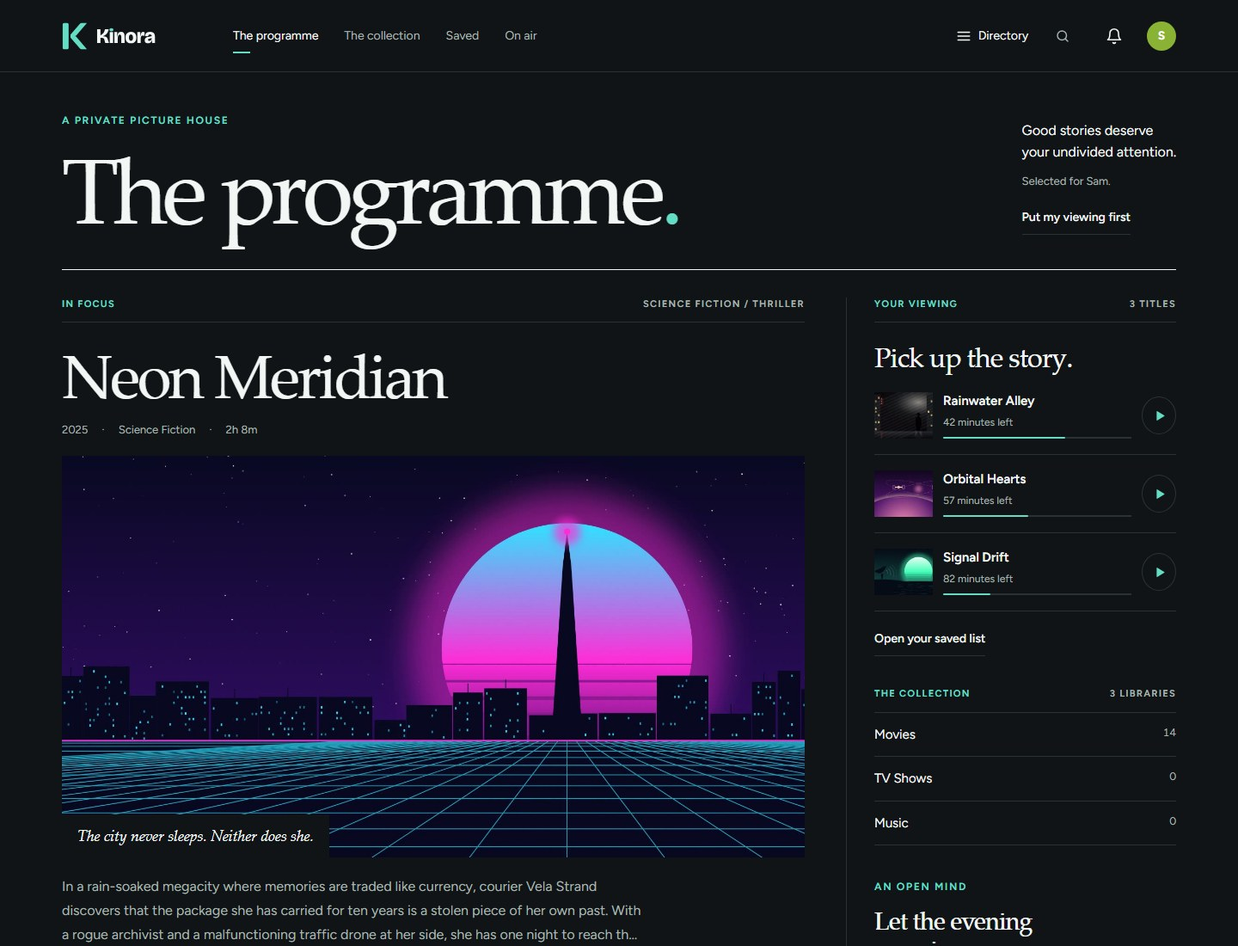
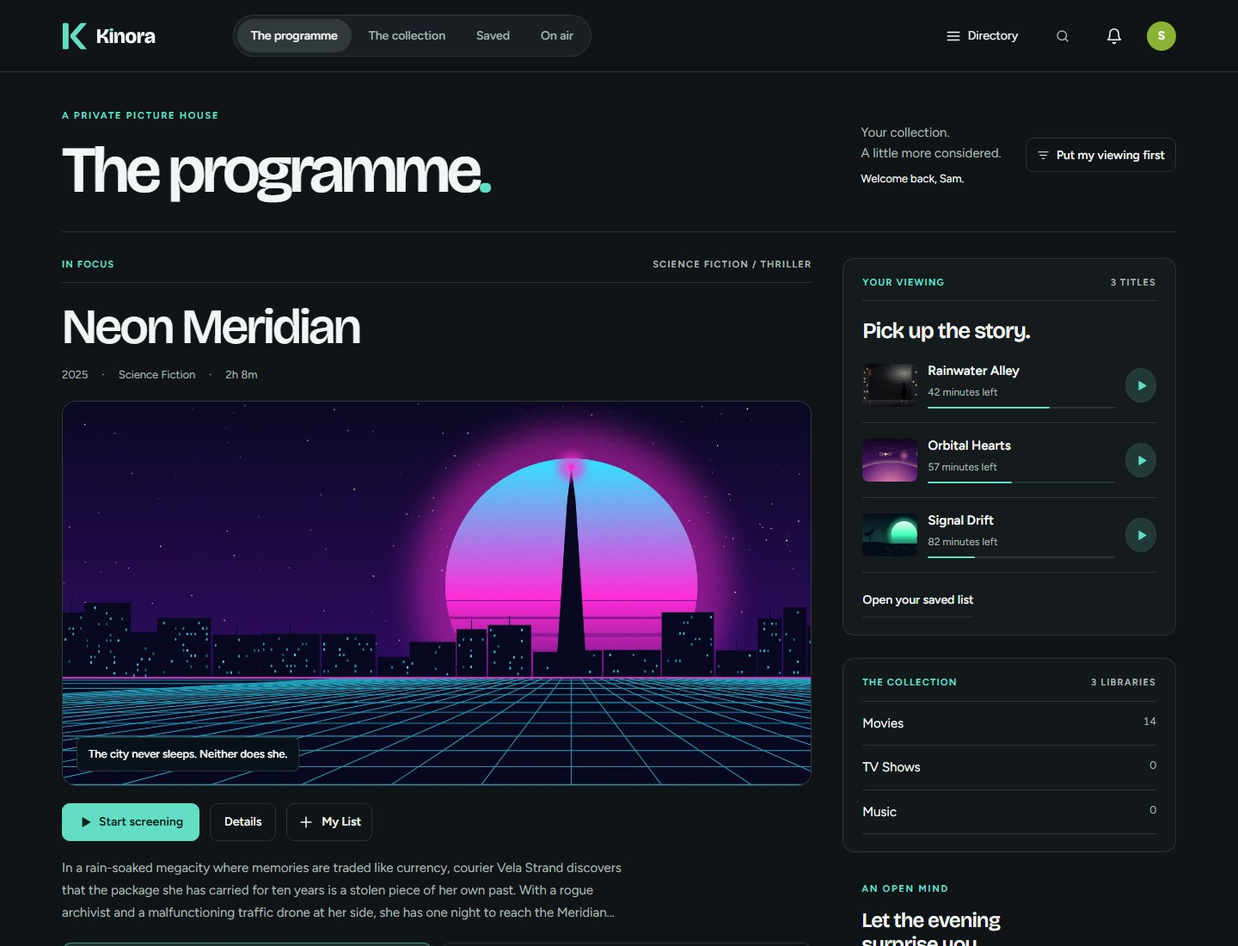
Refine programme typography surfaces navigation and screening actions

diff --git a/web/src/styles/programme.css b/web/src/styles/programme.css
@@ -1,101 +1,101 @@
 /* The Programme: an editorial picture-house interface. TV keeps its remote-first shell. */
 .masthead-nav, .directory-trigger, .directory-close { display: none; }
-html:not(.tv) .app-shell.edition { --sidebar-w: 0px; --topbar-h: 84px; --gutter: clamp(24px, 5vw, 80px); --programme-serif: 'Iowan Old Style', 'Palatino Linotype', 'Book Antiqua', Georgia, serif; }
+html:not(.tv) .app-shell.edition { --sidebar-w: 0px; --topbar-h: 84px; --gutter: clamp(24px, 5vw, 80px); --programme-display: var(--font-display); }
 .edition .ambient { display: none; }
 .edition .main-col { margin-left: 0; }
 .edition .main { padding-top: var(--topbar-h); }
-.edition .topbar { left: 0; height: var(--topbar-h); padding: 0 var(--gutter); background: var(--c-bg); border-bottom: 1px solid var(--c-line); box-shadow: none; gap: 18px; backdrop-filter: none; }
+.edition .topbar { left: 0; height: var(--topbar-h); padding: 0 var(--gutter); background: color-mix(in srgb, var(--c-bg) 94%, transparent); border-bottom: 1px solid var(--c-line); box-shadow: none; gap: 18px; backdrop-filter: blur(18px); }
 .edition .topbar::before { display: none; }
 .edition .topbar-brand { display: inline-flex; margin-right: clamp(24px, 5vw, 80px); }
 .edition .topbar-caption { display: none; }
-.edition .masthead-nav { display: flex; align-items: center; gap: 30px; white-space: nowrap; }
-.masthead-nav a { position: relative; font-size: .875rem; color: var(--c-text-muted); padding: 30px 0; }
-.masthead-nav a.active { color: var(--c-text); }
-.masthead-nav a.active::after { content: ''; position: absolute; left: 0; bottom: 20px; width: 20px; height: 2px; background: var(--c-primary); }
-.edition .directory-trigger { display: inline-flex; align-items: center; gap: 8px; min-height: 44px; font-size: .875rem; }
+.edition .masthead-nav { display: flex; align-items: center; gap: 4px; padding: 4px; border: 1px solid var(--c-line); border-radius: 999px; background: var(--c-surface); white-space: nowrap; }
+.masthead-nav a { position: relative; font-size: .875rem; font-weight: 550; color: var(--c-text-muted); padding: 9px 16px; border-radius: 999px; transition: color .18s, background .18s; }
+.masthead-nav a.active { color: var(--c-text); background: var(--c-hover-strong); }
+.masthead-nav a.active::after { display: none; }
+.edition .directory-trigger { display: inline-flex; align-items: center; gap: 8px; min-height: 44px; padding: 0 12px; border-radius: 10px; font-size: .875rem; }
 .edition .cmd-trigger { width: 44px; min-width: 44px; height: 44px; justify-content: center; padding: 0; border: 0; background: none; box-shadow: none; backdrop-filter: none; }
 .edition .cmd-trigger-text, .edition .cmd-kbd { display: none; }
 .edition.app-shell .rail { left: auto; right: 16px; top: 100px; bottom: 20px; width: min(360px, calc(100vw - 32px)); transform: translateX(calc(100% + 32px)); visibility: hidden; pointer-events: none; z-index: 90; }
 .edition.app-shell.drawer-open .rail { transform: none; visibility: visible; pointer-events: auto; }
-.edition.app-shell .rail-panel { clip-path: none; border-radius: 2px; background: var(--c-surface); backdrop-filter: none; box-shadow: var(--shadow-lg); padding: 20px; }
+.edition.app-shell .rail-panel { clip-path: none; border-radius: 16px; background: var(--c-surface); backdrop-filter: none; box-shadow: var(--shadow-lg); padding: 20px; }
 .edition .rail :is(.nav-label, .nav-group-label, .nav-group-chev, .rail-meta) { opacity: 1; transform: none; }
 .edition .rail .nav-group-line, .edition .rail-pin { display: none; }
 .edition .directory-close { display: grid; place-items: center; position: absolute; top: 20px; right: 16px; width: 44px; height: 44px; z-index: 1; }
 .edition .drawer-scrim { display: block; visibility: hidden; position: fixed; inset: 0; z-index: 85; opacity: 0; pointer-events: none; background: rgb(0 0 0 / .65); }
 .edition.drawer-open .drawer-scrim { visibility: visible; opacity: 1; pointer-events: auto; }
-.edition .btn { border-radius: 2px; box-shadow: none; }
+.edition .btn { border-radius: 9px; box-shadow: none; }
 .edition .btn-primary { box-shadow: none; }
-.edition :is(.modal, .menu, .settings-card, .stat, .table-wrap) { border-radius: 3px; }
+.edition :is(.modal, .menu, .settings-card, .stat, .table-wrap) { border-radius: 14px; }
 .edition .page { width: 100%; max-width: 1560px; margin: 0 auto; padding: 44px var(--gutter); }
 .edition .page-head { padding-bottom: 24px; border-bottom: 1px solid var(--c-line); margin-bottom: 24px; }
-.edition .page-head h1 { font-family: var(--programme-serif); font-size: clamp(2.5rem, 5vw, 4.5rem); font-weight: 400; line-height: 1.05; letter-spacing: -.04em; }
+.edition .page-head h1 { font-family: var(--programme-display); font-size: clamp(2.3rem, 4vw, 3.5rem); font-weight: 600; line-height: 1.12; letter-spacing: -.045em; }
 .edition .page-title-wrap .page-icon { display: none; }
-.edition .filter-bar { position: static; border-bottom: 1px solid var(--c-line); padding: 0 0 20px; background: none; }
-.edition .filter-bar :is(.select, .chip) { border-radius: 2px; min-height: 40px; }
+.edition .filter-bar { position: static; border: 1px solid var(--c-line); border-radius: 12px; padding: 12px; background: color-mix(in srgb, var(--c-surface) 55%, transparent); }
+.edition .filter-bar :is(.select, .chip) { border-radius: 7px; min-height: 40px; }
 .edition .detail { margin-top: 0; }
 .edition .detail-backdrop { position: relative; left: 0; height: clamp(240px, 32vw, 460px); mask-image: none; -webkit-mask-image: none; }
 .edition .detail-shade { background: linear-gradient(to top, rgb(0 0 0 / .2), transparent); }
 .edition .detail-main { padding-top: 36px; align-items: flex-start; }
-.edition .detail-title { font-family: var(--programme-serif); font-weight: 400; }
-.edition .detail-poster { border-radius: 2px; box-shadow: none; }
-.edition .card-art { border-radius: 2px; }
-.edition .card { --poster-radius: 2px; }
+.edition .detail-title { font-family: var(--programme-display); font-weight: 600; }
+.edition .detail-poster { border-radius: 12px; box-shadow: var(--shadow); }
+.edition .card-art { border-radius: 10px; }
+.edition .card { --poster-radius: 10px; }
 .edition .card:hover { transform: none; }
 
 /* Masthead and spread use typographic hierarchy and rules instead of floating panels. */
 .programme { max-width: 1560px; margin: 0 auto; padding: 0 var(--gutter) 32px; }
 .programme-loading { padding-top: 44px; }
-.programme-masthead { display: flex; align-items: flex-end; justify-content: space-between; gap: 36px; padding: 44px 0 36px; border-bottom: 1px solid var(--c-text); margin-bottom: 32px; }
-.programme-kicker { color: var(--c-primary); font-size: .75rem; font-weight: 650; text-transform: uppercase; letter-spacing: .14em; }
-.programme-masthead h1 { font: 400 clamp(3.5rem, 7.5vw, 7rem)/1.06 var(--programme-serif); letter-spacing: -.055em; margin-top: 12px; }
+.programme-masthead { display: flex; align-items: center; justify-content: space-between; gap: 36px; padding: 38px 0 30px; border-bottom: 1px solid var(--c-line); margin-bottom: 30px; }
+.programme-kicker { color: var(--c-primary); font-size: .6875rem; font-weight: 650; text-transform: uppercase; letter-spacing: .16em; }
+.programme-masthead h1 { font: 600 clamp(3rem, 5.3vw, 5rem)/1.08 var(--programme-display); letter-spacing: -.055em; margin-top: 12px; }
 .programme-masthead h1 span { color: var(--c-primary); }
-.programme-introduction { flex: none; padding-bottom: 4px; }
-.programme-introduction p { font-size: 1rem; line-height: 1.55; margin-bottom: 12px; }
-.programme-introduction small { display: block; font-size: .8125rem; color: var(--c-text-muted); }
-.programme-introduction button { display: block; margin-top: 12px; }
-.programme-text-link { display: inline-flex; align-items: center; min-height: 40px; width: fit-content; border-bottom: 1px solid var(--c-line); font-size: .875rem; font-weight: 550; color: var(--c-text); text-align: left; }
+.programme-introduction { flex: none; display: grid; grid-template-columns: auto auto; column-gap: 28px; align-items: center; padding-bottom: 0; }
+.programme-introduction p { grid-column: 1; font-size: .9375rem; line-height: 1.55; margin-bottom: 8px; color: var(--c-text-muted); }
+.programme-introduction small { grid-column: 1; display: block; font-size: .8125rem; color: var(--c-text); }
+.programme-introduction button { grid-column: 2; grid-row: 1 / 3; display: inline-flex; gap: 8px; margin-top: 0; border: 1px solid var(--c-line); border-radius: 9px; padding: 0 12px; }
+.programme-text-link { display: inline-flex; align-items: center; min-height: 40px; width: fit-content; border-bottom: 1px solid var(--c-line); font-size: .875rem; font-weight: 550; color: var(--c-text); text-align: left; transition: color .18s, border-color .18s; }
 .programme-text-link:hover { color: var(--c-primary); border-color: var(--c-primary); }
 .programme-text-link[aria-pressed='true'] { color: var(--c-primary); }
-.programme-spread { display: grid; grid-template-columns: minmax(0, 2.25fr) minmax(260px, 1fr); gap: 48px; align-items: start; }
-.programme-rule { display: flex; align-items: center; justify-content: space-between; gap: 12px; padding-bottom: 12px; border-bottom: 1px solid var(--c-line); color: var(--c-text-muted); text-transform: uppercase; letter-spacing: .12em; font-size: .6875rem; font-weight: 650; }
+.programme-spread { display: grid; grid-template-columns: minmax(0, 2.25fr) minmax(280px, 1fr); gap: 36px; align-items: start; }
+.programme-rule { display: flex; align-items: center; justify-content: space-between; gap: 12px; padding-bottom: 12px; border-bottom: 1px solid var(--c-line); color: var(--c-text-muted); text-transform: uppercase; letter-spacing: .11em; font-size: .6875rem; font-weight: 650; }
 .programme-rule > span:first-child { color: var(--c-primary); }
-.feature-heading { padding: 24px 0 20px; }
-.feature-heading h2 { font: 400 clamp(2.7rem, 5vw, 5rem)/1.03 var(--programme-serif); letter-spacing: -.045em; text-wrap: balance; margin-bottom: 16px; }
+.feature-heading { padding: 20px 0 20px; }
+.feature-heading h2 { font: 550 clamp(2.3rem, 4vw, 3.8rem)/1.08 var(--programme-display); letter-spacing: -.045em; text-wrap: balance; margin-bottom: 14px; }
 .programme-meta { display: flex; gap: 8px 16px; flex-wrap: wrap; font-size: .8125rem; line-height: 1.6; color: var(--c-text-muted); }
 .programme-meta span + span::before { content: '·'; display: inline-block; margin-right: 16px; }
-.feature-photograph { display: block; position: relative; width: 100%; aspect-ratio: 1.85; overflow: hidden; background: var(--c-surface-alt); }
+.feature-photograph { display: block; position: relative; width: 100%; aspect-ratio: 1.95; overflow: hidden; background: var(--c-surface-alt); border-radius: 16px; border: 1px solid var(--c-line); }
 .feature-photograph > .img, .feature-photograph > .img-fallback { width: 100%; height: 100%; object-fit: cover; }
-.feature-caption { position: absolute; left: 0; bottom: 0; max-width: 90%; padding: 12px 18px; font-family: var(--programme-serif); font-style: italic; font-size: 1.1rem; background: var(--c-bg); color: var(--c-text); }
-.feature-bottom { padding: 20px 0 24px; }
-.feature-description { max-width: 66ch; font-size: 1rem; line-height: 1.75; color: var(--c-text-muted); display: -webkit-box; -webkit-line-clamp: 3; -webkit-box-orient: vertical; overflow: hidden; }
-.feature-actions { display: flex; align-items: center; gap: 22px; margin-top: 20px; flex-wrap: wrap; }
-.edition .programme-play { min-height: 44px; padding: 0 20px; background: var(--c-text); color: var(--c-bg); border: 1px solid var(--c-text); font-size: .875rem; font-weight: 650; }
-.edition .programme-play:hover { background: var(--c-primary); color: var(--c-primary-text); border-color: var(--c-primary); }
+.feature-caption { position: absolute; left: 16px; bottom: 16px; max-width: calc(100% - 32px); padding: 9px 13px; font-size: .8125rem; font-weight: 500; border-radius: 7px; border: 1px solid rgb(255 255 255 / .14); background: rgb(8 16 17 / .76); color: #fff; backdrop-filter: blur(12px); }
+.feature-bottom { padding: 20px 0 22px; }
+.feature-description { max-width: 68ch; margin-top: 18px; font-size: .9375rem; line-height: 1.75; color: var(--c-text-muted); display: -webkit-box; -webkit-line-clamp: 3; -webkit-box-orient: vertical; overflow: hidden; }
+.feature-actions { display: flex; align-items: center; gap: 12px; margin-top: 0; flex-wrap: wrap; }
+.edition .programme-play { min-height: 44px; padding: 0 18px; background: var(--c-primary); color: var(--c-primary-text); border: 1px solid var(--c-primary); font-size: .875rem; font-weight: 650; }
+.edition .programme-play:hover { filter: brightness(1.08); transform: translateY(-1px); }
 .edition .feature-actions .watchlist-btn, .edition .catalogue-actions .watchlist-btn { font-size: .875rem; min-height: 44px; height: auto; padding: 0 12px; border: 1px solid var(--c-line); background: transparent; backdrop-filter: none; color: var(--c-text); }
-.feature-switcher { display: grid; grid-template-columns: repeat(2, minmax(0, 1fr)); gap: 0 24px; border-top: 1px solid var(--c-line); }
-.feature-switcher button { display: flex; align-items: center; justify-content: space-between; gap: 12px; min-width: 0; min-height: 56px; padding: 12px 0; text-align: left; border-bottom: 1px solid var(--c-line); font-size: .875rem; color: var(--c-text-muted); }
-.feature-switcher button[aria-pressed='true'] { color: var(--c-primary); border-bottom-color: var(--c-primary); }
-.feature-switcher button small { font-size: .75rem; flex: none; }
-.programme-margin { border-left: 1px solid var(--c-line); padding-left: 32px; }
-.programme-margin h2 { font: 400 2rem/1.15 var(--programme-serif); letter-spacing: -.03em; margin: 22px 0; }
+.feature-switcher { display: grid; grid-template-columns: repeat(2, minmax(0, 1fr)); gap: 10px; border-top: 0; }
+.feature-switcher button { display: grid; grid-template-columns: 60px minmax(0, 1fr); grid-template-rows: auto auto; align-items: center; gap: 2px 12px; min-width: 0; min-height: 76px; padding: 10px; text-align: left; border: 1px solid var(--c-line); border-radius: 11px; font-size: .875rem; color: var(--c-text-muted); transition: background .18s, border-color .18s; }
+.feature-switcher button[aria-pressed='true'] { color: var(--c-text); border-color: color-mix(in srgb, var(--c-primary) 55%, transparent); background: var(--c-primary-soft); }
+.feature-switcher button small { grid-column: 2; align-self: start; font-size: .75rem; color: var(--c-text-muted); }
+.programme-margin { padding: 0; border-left: 0; }
+.programme-margin h2 { font: 600 1.6rem/1.2 var(--programme-display); letter-spacing: -.035em; margin: 20px 0; }
 .viewing-entries { max-height: 450px; overflow-y: auto; scrollbar-width: thin; }
-.viewing-entry { display: flex; align-items: center; gap: 12px; padding: 18px 0; border-bottom: 1px solid var(--c-line); }
+.viewing-entry { display: flex; align-items: center; gap: 12px; padding: 16px 0; border-bottom: 1px solid var(--c-line); }
 .viewing-entry:first-child { padding-top: 0; }
-.viewing-art { width: 68px; height: 54px; flex: none; overflow: hidden; background: var(--c-surface); }
+.viewing-art { width: 64px; height: 50px; flex: none; overflow: hidden; border-radius: 7px; background: var(--c-surface); }
 .viewing-art .img { width: 100%; height: 100%; object-fit: cover; }
 .viewing-copy { min-width: 0; flex: 1; }
 .viewing-copy > a { display: block; font-size: .9375rem; font-weight: 600; line-height: 1.4; }
 .viewing-copy small { display: block; font-size: .75rem; color: var(--c-text-muted); line-height: 1.5; margin: 5px 0 8px; }
 .viewing-copy .progress { height: 2px; border-radius: 0; background: var(--c-line); }
-.viewing-play { width: 40px; height: 44px; flex: none; display: grid; place-items: center; color: var(--c-primary); border: 1px solid var(--c-line); border-radius: 50%; }
+.viewing-play { width: 36px; height: 40px; flex: none; display: grid; place-items: center; color: var(--c-primary); border: 1px solid var(--c-line); border-radius: 50%; background: var(--c-primary-soft); }
 .viewing-board > .programme-text-link { margin-top: 12px; }
 .programme-note { color: var(--c-text-muted); font-size: .95rem; line-height: 1.7; }
-.collection-directory { margin-top: 36px; }
+.collection-directory { margin-top: 26px; padding: 20px 22px; border: 1px solid var(--c-line); border-radius: 14px; background: color-mix(in srgb, var(--c-surface) 40%, transparent); }
 .collection-directory > a { display: flex; justify-content: space-between; gap: 16px; padding: 14px 0; border-bottom: 1px solid var(--c-line); font-size: .9375rem; }
 .collection-directory > a:hover { color: var(--c-primary); }
 .collection-directory small { color: var(--c-text-muted); font-variant-numeric: tabular-nums; }
-.programme-chance { margin-top: 36px; }
-.programme-chance h2 { font-size: 1.8rem; margin: 12px 0 16px; }
+.programme-chance { margin-top: 26px; padding: 4px 22px; }
+.programme-chance h2 { font-size: 1.5rem; margin: 12px 0 16px; }
 .programme-chance .decide-bar { padding: 0; margin: 0; display: flex; flex-direction: column; align-items: flex-start; gap: 10px; }
 .edition .programme-chance .chip { border: 0; border-bottom: 1px solid var(--c-line); padding: 0; border-radius: 0; min-height: 40px; background: none; font-size: .875rem; }
 .programme-spread.without-feature { grid-template-columns: 1fr; }
@@ -106,32 +106,32 @@ html:not(.tv) .app-shell.edition { --sidebar-w: 0px; --topbar-h: 84px; --gutter:
 .viewing-first .feature-story { grid-column: 2; grid-row: 1; }
 .programme.viewing-first .programme-spread.without-feature { grid-template-columns: 1fr; }
 .programme.viewing-first .without-feature .programme-margin { grid-column: auto; grid-row: auto; border: 0; padding: 0; }
-.story-section { margin-top: 52px; padding-top: 24px; border-top: 1px solid var(--c-text); }
+.story-section { margin-top: 44px; padding-top: 28px; border-top: 1px solid var(--c-line); }
 .story-section-head { display: flex; align-items: baseline; justify-content: space-between; gap: 24px; margin-bottom: 24px; }
-.story-section-head h2 { font: 400 clamp(1.9rem, 3vw, 2.8rem)/1.15 var(--programme-serif); letter-spacing: -.03em; }
+.story-section-head h2 { font: 600 clamp(1.7rem, 2.5vw, 2.3rem)/1.2 var(--programme-display); letter-spacing: -.035em; }
 .story-section-head > div { display: flex; align-items: center; gap: 24px; flex: none; font-size: .8125rem; color: var(--c-text-muted); }
 .story-grid { display: grid; grid-template-columns: repeat(3, minmax(0, 1fr)); gap: 32px 26px; }
 .story-tile:first-child { grid-column: span 2; }
-.story-art { display: block; width: 100%; aspect-ratio: 1.18; overflow: hidden; background: var(--c-surface); margin-bottom: 14px; }
+.story-art { display: block; width: 100%; aspect-ratio: 1.18; overflow: hidden; background: var(--c-surface); border: 1px solid var(--c-line); border-radius: 12px; margin-bottom: 14px; }
 .story-tile:first-child .story-art { aspect-ratio: 2.42; }
 .story-art .img { width: 100%; height: 100%; object-fit: cover; transition: transform .3s; }
 .story-art:hover .img { transform: scale(1.025); }
-.story-title { display: block; font: 400 1.6rem/1.2 var(--programme-serif); letter-spacing: -.02em; margin-bottom: 8px; }
+.story-title { display: block; font: 600 1.3rem/1.3 var(--programme-display); letter-spacing: -.025em; margin-bottom: 8px; }
 .story-title:hover { color: var(--c-primary); }
 .story-more { margin-top: 24px; }
 .programme-special { padding-top: 32px; margin-top: 32px; border-top: 1px solid var(--c-line); }
 .programme-special .row-head, .programme-special .row-scroller { padding-left: 0; padding-right: 0; }
-.programme-colophon { display: flex; justify-content: space-between; gap: 24px; padding: 28px 0; margin-top: 48px; border-top: 1px solid var(--c-text); font-size: .8125rem; color: var(--c-text-muted); }
-.programme-colophon > span { font-family: var(--programme-serif); font-size: 1.2rem; font-style: italic; }
+.programme-colophon { display: flex; justify-content: space-between; gap: 24px; padding: 28px 0; margin-top: 48px; border-top: 1px solid var(--c-line); font-size: .8125rem; color: var(--c-text-muted); }
+.programme-colophon > span { font-family: var(--programme-display); font-size: 1rem; font-weight: 600; }
 
 /* A catalogue to read, with working filters and an optional cover view. */
-.library-presentation { display: flex; gap: 24px; margin: 0 0 24px; }
-.library-presentation button { min-height: 44px; font-size: .875rem; border-bottom: 1px solid transparent; color: var(--c-text-muted); }
-.library-presentation button[aria-pressed='true'] { color: var(--c-primary); border-color: var(--c-primary); }
+.library-presentation { display: flex; gap: 4px; width: fit-content; padding: 4px; border: 1px solid var(--c-line); border-radius: 9px; background: var(--c-surface); margin: 0 0 24px; }
+.library-presentation button { min-height: 38px; padding: 0 14px; font-size: .875rem; border-radius: 6px; color: var(--c-text-muted); }
+.library-presentation button[aria-pressed='true'] { color: var(--c-text); background: var(--c-hover-strong); }
 .catalogue-entry { display: grid; grid-template-columns: 78px minmax(0, 1fr) auto; align-items: start; gap: 24px; padding: 24px 0; border-bottom: 1px solid var(--c-line); }
-.catalogue-cover { width: 78px; height: 112px; overflow: hidden; background: var(--c-surface); }
+.catalogue-cover { width: 78px; height: 112px; overflow: hidden; background: var(--c-surface); border-radius: 8px; }
 .catalogue-cover .img { width: 100%; height: 100%; object-fit: contain; }
-.catalogue-title { display: block; font: 400 1.9rem/1.15 var(--programme-serif); letter-spacing: -.02em; margin: 2px 0 10px; }
+.catalogue-title { display: block; font: 600 1.45rem/1.25 var(--programme-display); letter-spacing: -.025em; margin: 2px 0 10px; }
 .catalogue-copy > p { max-width: 75ch; margin-top: 10px; font-size: .9375rem; line-height: 1.65; color: var(--c-text-muted); display: -webkit-box; -webkit-line-clamp: 2; -webkit-box-orient: vertical; overflow: hidden; }
 .catalogue-actions { display: flex; align-items: center; gap: 12px; padding-top: 8px; }
 .edition .jumpbar { top: calc(var(--topbar-h) + 24px); padding-left: 8px; }
@@ -216,4 +216,59 @@ html:not(.tv) .app-shell.edition { --sidebar-w: 0px; --topbar-h: 84px; --gutter:
 @media (prefers-reduced-motion: reduce) {
   .story-art .img { transition: none; }
   .story-art:hover .img { transform: none; }
+}
+
+/* Surface and interaction finishing. */
+@media (max-width: 1050px) {
+  .edition .masthead-nav { display: none; }
+}
+.viewing-board { padding: 20px 22px; border: 1px solid var(--c-line); border-radius: 14px; background: color-mix(in srgb, var(--c-surface) 65%, transparent); }
+.feature-switcher button > .img, .feature-switcher button > .img-fallback { grid-row: 1 / 3; width: 60px; height: 46px; object-fit: cover; border-radius: 6px; }
+.feature-switcher button > span { align-self: end; font-weight: 550; line-height: 1.3; }
+.feature-actions > .programme-text-link { min-height: 44px; border: 1px solid var(--c-line); border-radius: 9px; padding: 0 16px; }
+.edition :is(.directory-trigger, .cmd-trigger):hover { background: var(--c-hover); }
+.edition :is(.cmd-trigger, .user-btn) { border-radius: 10px; }
+.edition .programme :is(a, button):focus-visible, .edition .library-presentation button:focus-visible { outline: 2px solid var(--c-primary); outline-offset: 4px; }
+.catalogue-entry { transition: background .18s; }
+.catalogue-entry:hover { background: color-mix(in srgb, var(--c-surface) 35%, transparent); }
+@media (max-width: 1150px) {
+  .programme-introduction { column-gap: 18px; }
+  .programme-introduction p { display: none; }
+  .programme-introduction small { grid-row: 1; }
+  .programme-introduction button { grid-row: 2; grid-column: 1; margin-top: 10px; }
+}
+@media (max-width: 900px) {
+  .programme-masthead h1 { font-size: clamp(2.8rem, 6vw, 4rem); }
+  .programme-margin { padding-left: 0; }
+  .programme-margin .programme-chance { margin-top: 0; }
+  .catalogue-title { font-size: 1.35rem; }
+}
+@media (max-width: 560px) {
+  .programme-masthead { padding-top: 26px; margin-bottom: 22px; }
+  .programme-masthead h1 { font-size: clamp(2.45rem, 9.5vw, 3.5rem); }
+  .programme-introduction { display: flex; margin-top: 16px; }
+  .programme-introduction button { margin: 0; padding: 0 10px; min-height: 36px; font-size: .7rem; }
+  .feature-heading h2 { font-size: 2.15rem; }
+  .feature-photograph { aspect-ratio: 1.45; border-radius: 12px; }
+  .feature-caption { left: 10px; bottom: 10px; max-width: calc(100% - 20px); font-size: .75rem; padding: 7px 10px; }
+  .feature-actions { margin-top: 0; gap: 8px; }
+  .edition .feature-actions :is(.programme-play, .watchlist-btn) { font-size: .8125rem; padding: 0 12px; }
+  .feature-actions > .programme-text-link { font-size: .8125rem; padding: 0 12px; }
+  .feature-switcher { grid-template-columns: repeat(2, minmax(0, 1fr)); gap: 8px; }
+  .feature-switcher button { grid-template-columns: 1fr; min-height: 68px; padding: 10px; font-size: .75rem; }
+  .feature-switcher button > .img, .feature-switcher button > .img-fallback { display: none; }
+  .feature-switcher button > span, .feature-switcher button small { grid-column: 1; }
+  .programme-margin h2 { font-size: 1.5rem; }
+  .collection-directory { padding: 18px; }
+  .viewing-board { padding: 18px; }
+  .programme-chance { padding: 0 8px; }
+  .story-section-head h2 { font-size: 1.65rem; }
+  .story-title { font-size: 1.125rem; }
+  .catalogue-cover { width: 58px; height: 84px; }
+  .catalogue-title { font-size: 1.2rem; }
+  .programme .programme-rule { font-size: .625rem; }
+}
+@media (prefers-reduced-motion: reduce) {
+  .edition .programme-play:hover { transform: none; }
+  .feature-switcher button, .catalogue-entry { transition: none; }
 }

diff --git a/web/src/components/Programme.tsx b/web/src/components/Programme.tsx
@@ -79,15 +79,15 @@ function FeatureStory({ items, style }: { items: Item[]; style: HeroStyle }) {
         {item.tagline && <span className="feature-caption">{item.tagline}</span>}
       </Link>
       <div className="feature-bottom">
-        <p className="feature-description">{item.overview || 'Find your next story in your own collection.'}</p>
         <div className="feature-actions">
           <button className="btn programme-play" onClick={() => play(item)} data-nav><Icon name="play" size={16} />{isResumable(item) ? 'Resume screening' : 'Start screening'}</button>
           <Link to={itemLink(item)} className="programme-text-link" data-nav>Details</Link>
           {canWatchlist(item) && <WatchlistButton key={item.id} item={item} variant="detail" />}
         </div>
+        <p className="feature-description">{item.overview || 'Find your next story in your own collection.'}</p>
       </div>
       {list.length > 1 && <div className="feature-switcher" role="group" aria-label="Choose a featured title">{list.map((entry, index) => (
-        <button key={entry.id} type="button" aria-pressed={index === Math.min(selected, list.length - 1)} onClick={() => setSelected(index)} data-nav><span>{entry.title}</span><small>{entry.year}</small></button>
+        <button key={entry.id} type="button" aria-pressed={index === Math.min(selected, list.length - 1)} onClick={() => setSelected(index)} data-nav><Img src={landscapeFor(entry)} width={140} alt="" /><span>{entry.title}</span><small>{entry.year}</small></button>
       ))}</div>}
     </section>
   );
@@ -129,7 +129,7 @@ export function Programme({ rows, heroStyle, renderRow, linkFor }: { rows: HomeR
     <div className={`programme ${viewingFirst ? 'viewing-first' : ''}`}>
       <header className="programme-masthead">
         <div><span className="programme-kicker">A private picture house</span><h1>The programme<span>.</span></h1></div>
-        <div className="programme-introduction"><p>Good stories deserve<br />your undivided attention.</p><small>{user?.displayName ? `Selected for ${user.displayName}.` : 'Your collection, at your pace.'}</small><button className="programme-text-link" aria-label="Prioritize my viewing" aria-pressed={viewingFirst} onClick={toggleOrder} data-nav>{viewingFirst ? 'Feature first' : 'Put my viewing first'}</button></div>
+        <div className="programme-introduction"><p>Your collection.<br />A little more considered.</p><small>{user?.displayName ? `Welcome back, ${user.displayName}.` : 'Your own home cinema.'}</small><button className="programme-text-link" aria-label="Prioritize my viewing" aria-pressed={viewingFirst} onClick={toggleOrder} data-nav><Icon name="sort" size={15} />{viewingFirst ? 'Feature first' : 'Put my viewing first'}</button></div>
       </header>
       <div className={`programme-spread ${!featured?.items.length || heroStyle === 'none' ? 'without-feature' : ''}`}>
         {featured && heroStyle !== 'none' && <FeatureStory items={featured.items} style={heroStyle} />}

diff --git a/docs/DESIGN.md b/docs/DESIGN.md
@@ -2,6 +2,8 @@
 
 The proposed desktop/phone interface uses an editorial programme instead of a carousel and poster rails: a typographic masthead, manually selected feature story, a personal viewing board, an asymmetric collection spread and a readable library index. Global navigation lives in a masthead and keyboard-accessible directory. The stock graphite/mint identity remains; all colours still derive from server themes. See [UI research and rationale](UI_RESEARCH.md).
 
+The refined presentation uses the self-hosted display typeface rather than a system serif, a smaller masthead, consistent 9–16 px surface radii, segmented primary navigation, clearer feature selectors and calmer surface contrast. Screening/save actions precede the synopsis so they are easier to reach. Spacing, focus states and responsive layout remain shared across the programme and catalogue.
+
 Implementation: `components/Programme.tsx`, `styles/programme.css`, `components/Layout.tsx` and the title-index mode in `pages/Library.tsx`. Both programme order and library presentation can be changed and are remembered per device. Every configured home row remains available; collection sections expand to reveal all returned titles. Featured artwork is still linked to details; playback and watchlist buttons use the existing actions. Feature selection is manual, with no automatic rotation or trailer start. Title pages use a separate photograph and text composition.
 
 TV retains the previous remote-first presentation. The following describes that Lumen foundation and mechanisms still used elsewhere, rather than the new desktop/phone geometry.
